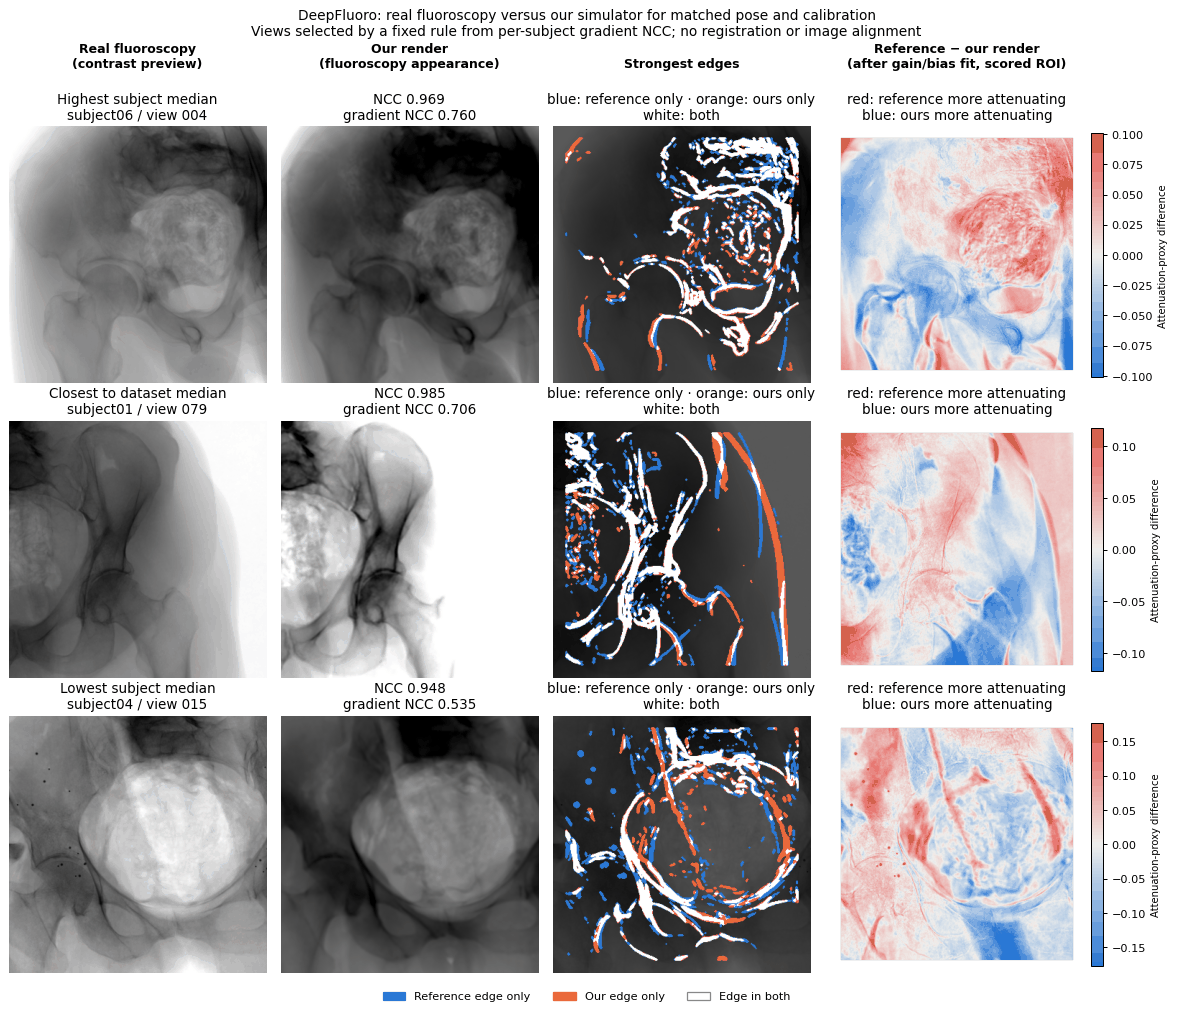
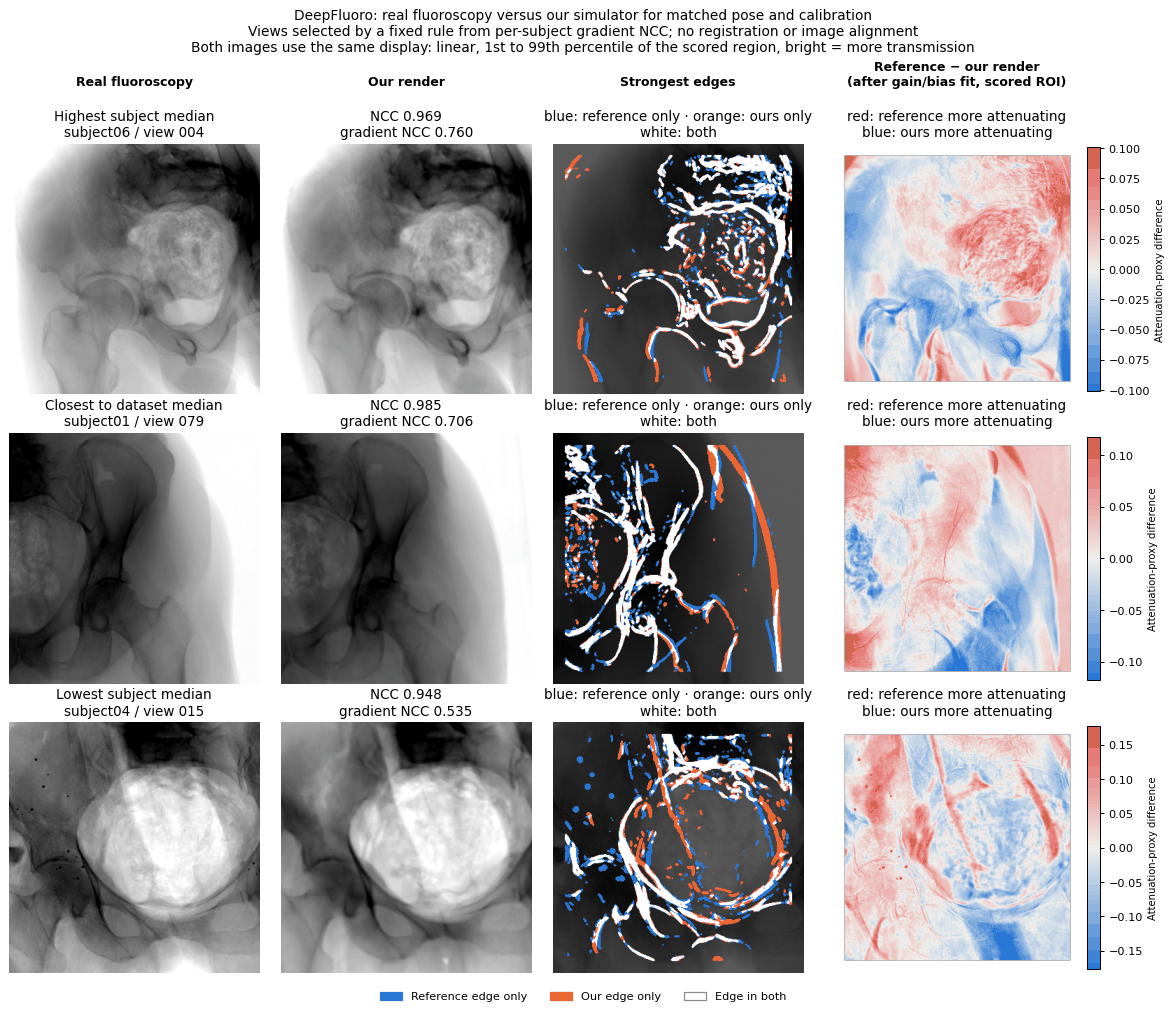
docs: same display for real and rendered DeepFluoro samples; explain subject02/03
The sample figure showed the real image min-max stretched per view but our
render through the subject's frozen display window, which clipped on later
views (subject01/079 saturated). Both now use the same linear stretch between
the scored region's 1st and 99th percentiles, bright = more transmission;
the stored DeepFluoro values are log-domain, so this compares like with like.

validation.md gains the DeepFluoro per-subject scores and explains them:
subject02's and subject03's CT boxes cut through the body. On every second
view, 90% (subject02) and 59% (subject03) of scored pixels have truncated
rays. Scoring only untruncated pixels raises subject02's NCC from 0.842 to
0.921 on the same 23 views; subject03 barely changes (0.936 -> 0.938).

markdown-link-check skips lit.fe.uni-lj.si: the page is valid, but Node's
HTTP parser rejects one of its response headers (HPE_INVALID_HEADER_TOKEN),
so the checker failed on it every run.

diff --git a/xray-simulator/docs/reports/deepfluoro-ljubljana/make_sample_figure.py b/xray-simulator/docs/reports/deepfluoro-ljubljana/make_sample_figure.py
@@ -51,6 +51,12 @@ def edges(image, mask, fraction=0.12):
     return mask & (magnitude >= np.quantile(magnitude[mask], 1 - fraction))
 
 
+def same_display(signal, mask):
+    """Linear stretch between the scored region's 1st and 99th percentiles, applied identically to both images."""
+    low, high = np.percentile(signal[mask], [1, 99])
+    return np.clip((signal - low) / (high - low), 0, 1)
+
+
 def select_views(out):
     subjects = {r['subject']: float(r['gradient_ncc_median']) for r in csv.DictReader((out / 'per_subject_summary.csv').open())
                 if r['dataset'] == 'deepfluoro'}
@@ -75,7 +81,7 @@ def main():
     views = select_views(args.output)
     plt.rcParams.update({'font.size': 9})
     fig, axes = plt.subplots(len(views), 4, figsize=(13, 3.6 * len(views)), constrained_layout=True)
-    headers = ['Real fluoroscopy\n(contrast preview)', 'Our render\n(fluoroscopy appearance)',
+    headers = ['Real fluoroscopy', 'Our render',
                'Strongest edges', 'Reference − our render\n(after gain/bias fit, scored ROI)']
     for axis, header in zip(axes[0], headers):
         axis.annotate(header, (0.5, 1.22), xycoords='axes fraction', ha='center', va='bottom', fontsize=10, weight='bold')
@@ -84,17 +90,21 @@ def main():
         mask = np.load(p / 'mask.npy')
         reference = np.load(p / 'reference_proxy.npy')
         attenuation = np.load(p / 'rendered_attenuation.npy')
+        # The stored DeepFluoro values are log-domain and bright where transmission is high, so both
+        # are shown linearly in that polarity: stored values, and our line integral negated.
+        real_display = same_display(np.load(p / 'reference_stored.npy'), mask)
+        our_display = same_display(-attenuation, mask)
         fit = record['scores']['affine_fit']
         fitted = fit['gain'] * attenuation / 6 + fit['bias']
         scores = record['scores']['as_configured']
 
-        row[0].imshow(plt.imread(p / 'reference_contrast_preview.png'), cmap='gray', vmin=0, vmax=1)
+        row[0].imshow(real_display, cmap='gray', vmin=0, vmax=1)
         row[0].set_title(f'{label}\n{record["subject"]} / view {record["view"]}')
-        row[1].imshow(plt.imread(p / 'fluoro_subject_window.png'), cmap='gray', vmin=0, vmax=1)
+        row[1].imshow(our_display, cmap='gray', vmin=0, vmax=1)
         row[1].set_title(f'NCC {scores["ncc"]:.3f}\ngradient NCC {scores["gradient_ncc"]:.3f}')
 
         ref_edges, our_edges = edges(reference, mask), edges(fitted, mask)
-        overlay = np.repeat((0.35 * plt.imread(p / 'reference_contrast_preview.png'))[..., None], 3, axis=2)[..., :3]
+        overlay = np.repeat((0.35 * real_display)[..., None], 3, axis=2)
         thick = lambda e: binary_dilation(e, iterations=1)  # noqa: E731
         overlay[thick(ref_edges) & ~thick(our_edges)] = REFERENCE_EDGE
         overlay[thick(our_edges) & ~thick(ref_edges)] = RENDER_EDGE
@@ -114,7 +124,9 @@ def main():
                         Patch(facecolor='white', edgecolor='#888888', label='Edge in both')],
                loc='upper center', ncol=3, frameon=False, bbox_to_anchor=(0.5, -0.005))
     fig.suptitle('DeepFluoro: real fluoroscopy versus our simulator for matched pose and calibration\n'
-                 'Views selected by a fixed rule from per-subject gradient NCC; no registration or image alignment', fontsize=11)
+                 'Views selected by a fixed rule from per-subject gradient NCC; no registration or image alignment\n'
+                 'Both images use the same display: linear, 1st to 99th percentile of the scored region, bright = more transmission',
+                 fontsize=11)
     args.figure.parent.mkdir(parents=True, exist_ok=True)
     buffer = io.BytesIO()
     fig.savefig(buffer, format='png', dpi=90, bbox_inches='tight')

diff --git a/xray-simulator/docs/validation.md b/xray-simulator/docs/validation.md
@@ -56,6 +56,45 @@ renderer, not realism.
 
 ![Per-subject agreement for DRR-RATE](reports/drr-rate/comparison_summary.png)
 
+### DeepFluoro per-subject scores
+
+| Subject | Views | NCC | Gradient NCC | Shape SSIM |
+| --- | ---: | ---: | ---: | ---: |
+| subject01 | 109 | 0.941 | 0.706 | 0.858 |
+| subject02 | 104 | 0.888 | 0.657 | 0.825 |
+| subject03 | 24 | 0.937 | 0.750 | 0.898 |
+| subject04 | 46 | 0.944 | 0.536 | 0.842 |
+| subject05 | 55 | 0.935 | 0.651 | 0.838 |
+| subject06 | 24 | 0.969 | 0.755 | 0.878 |
+
+Values are medians over each subject's views, from the
+[per-subject summary](reports/deepfluoro-ljubljana/per_subject_summary.csv).
+
+**subject02 and subject03 have truncated CT volumes.** Each CT in this release
+is a box cropped around the pelvis. For subject01 and subject04–06, the box's
+left/right and front/back faces lie almost entirely in air: at most 10% of each
+face is tissue. The crop cuts through subject02's body on all four sides (68% of
+the left/right faces and 57% of the front/back faces are tissue) and subject03's
+mainly at the sides (39% left/right, 16% front/back). A ray that passes through
+tissue outside the box is attenuated in the real image but not in our render.
+
+To measure the effect, we rendered the tissue on the box faces with each view's
+pose and marked every scored pixel whose ray crosses it, on every second view:
+
+- **subject02** has the lowest NCC because of this. In its median view, 90% of
+  the scored pixels have truncated rays. In the 23 of 52 analysed views that keep
+  at least a quarter of the scored region untruncated, NCC over the untruncated
+  pixels is 0.921, against 0.842 over the full region of the same views. The low
+  score reflects tissue missing from the input CT, not the simulator.
+- **subject03's** scores are typical despite the truncation: NCC close to the
+  dataset median of 0.939, and the second-highest gradient NCC and highest shape
+  SSIM. 59% of its scored pixels have truncated rays, but excluding them changes
+  its NCC only from 0.936 to 0.938, so the truncation has little effect on its
+  scores.
+
+The published scores keep the full scored region for every subject; this
+truncation analysis is supplementary.
+
 ### DeepFluoro sample comparisons
 
 ![DeepFluoro real fluoroscopy versus simulator, with edge overlay and difference map](images/validation/deepfluoro_samples.png)
@@ -64,8 +103,11 @@ The rows are chosen by a fixed rule rather than by appearance: the subjects with
 the highest, closest-to-median and lowest median gradient NCC, and for each the
 view closest to that subject's median. Columns, left to right:
 
-1. **Real fluoroscopy**, contrast-stretched for viewing.
-2. **Our render** in fluoroscopy appearance, with the view's NCC and gradient NCC.
+1. **Real fluoroscopy.**
+2. **Our render**, with the view's NCC and gradient NCC. Both images use the
+   same display: a linear stretch between the 1st and 99th percentiles of each
+   image's scored region, bright where transmission is high. The stored
+   DeepFluoro values are already log-converted, so this compares like with like.
 3. **Edge overlay:** the strongest 12% of edges in the scored region, in blue for
    the reference only, orange for our render only and white where they coincide.
 4. **Difference map:** the reference attenuation proxy minus our render after

diff --git a/xray-simulator/docs/reports/deepfluoro-ljubljana/README.md b/xray-simulator/docs/reports/deepfluoro-ljubljana/README.md
@@ -28,7 +28,10 @@ intensity. No acceptance threshold was specified.
 | Ljubljana | 10 | 20 | 0.840 | 0.737 | 0.641 | 20/20 |
 
 Per-subject gradient NCC ranges from 0.536 to 0.755 for DeepFluoro and from
-0.698 to 0.799 for Ljubljana. On Ljubljana's model-defined vessel ROI the median
+0.698 to 0.799 for Ljubljana. subject02's lower scores reflect a CT volume
+cropped through the body; the
+[validation guide](../../validation.md#deepfluoro-per-subject-scores) explains
+this and subject03's truncation. On Ljubljana's model-defined vessel ROI the median
 NCC is 0.858 and gradient NCC 0.737.
 
 “Matched beats misposed” compares gradient NCC against an independently rendered
